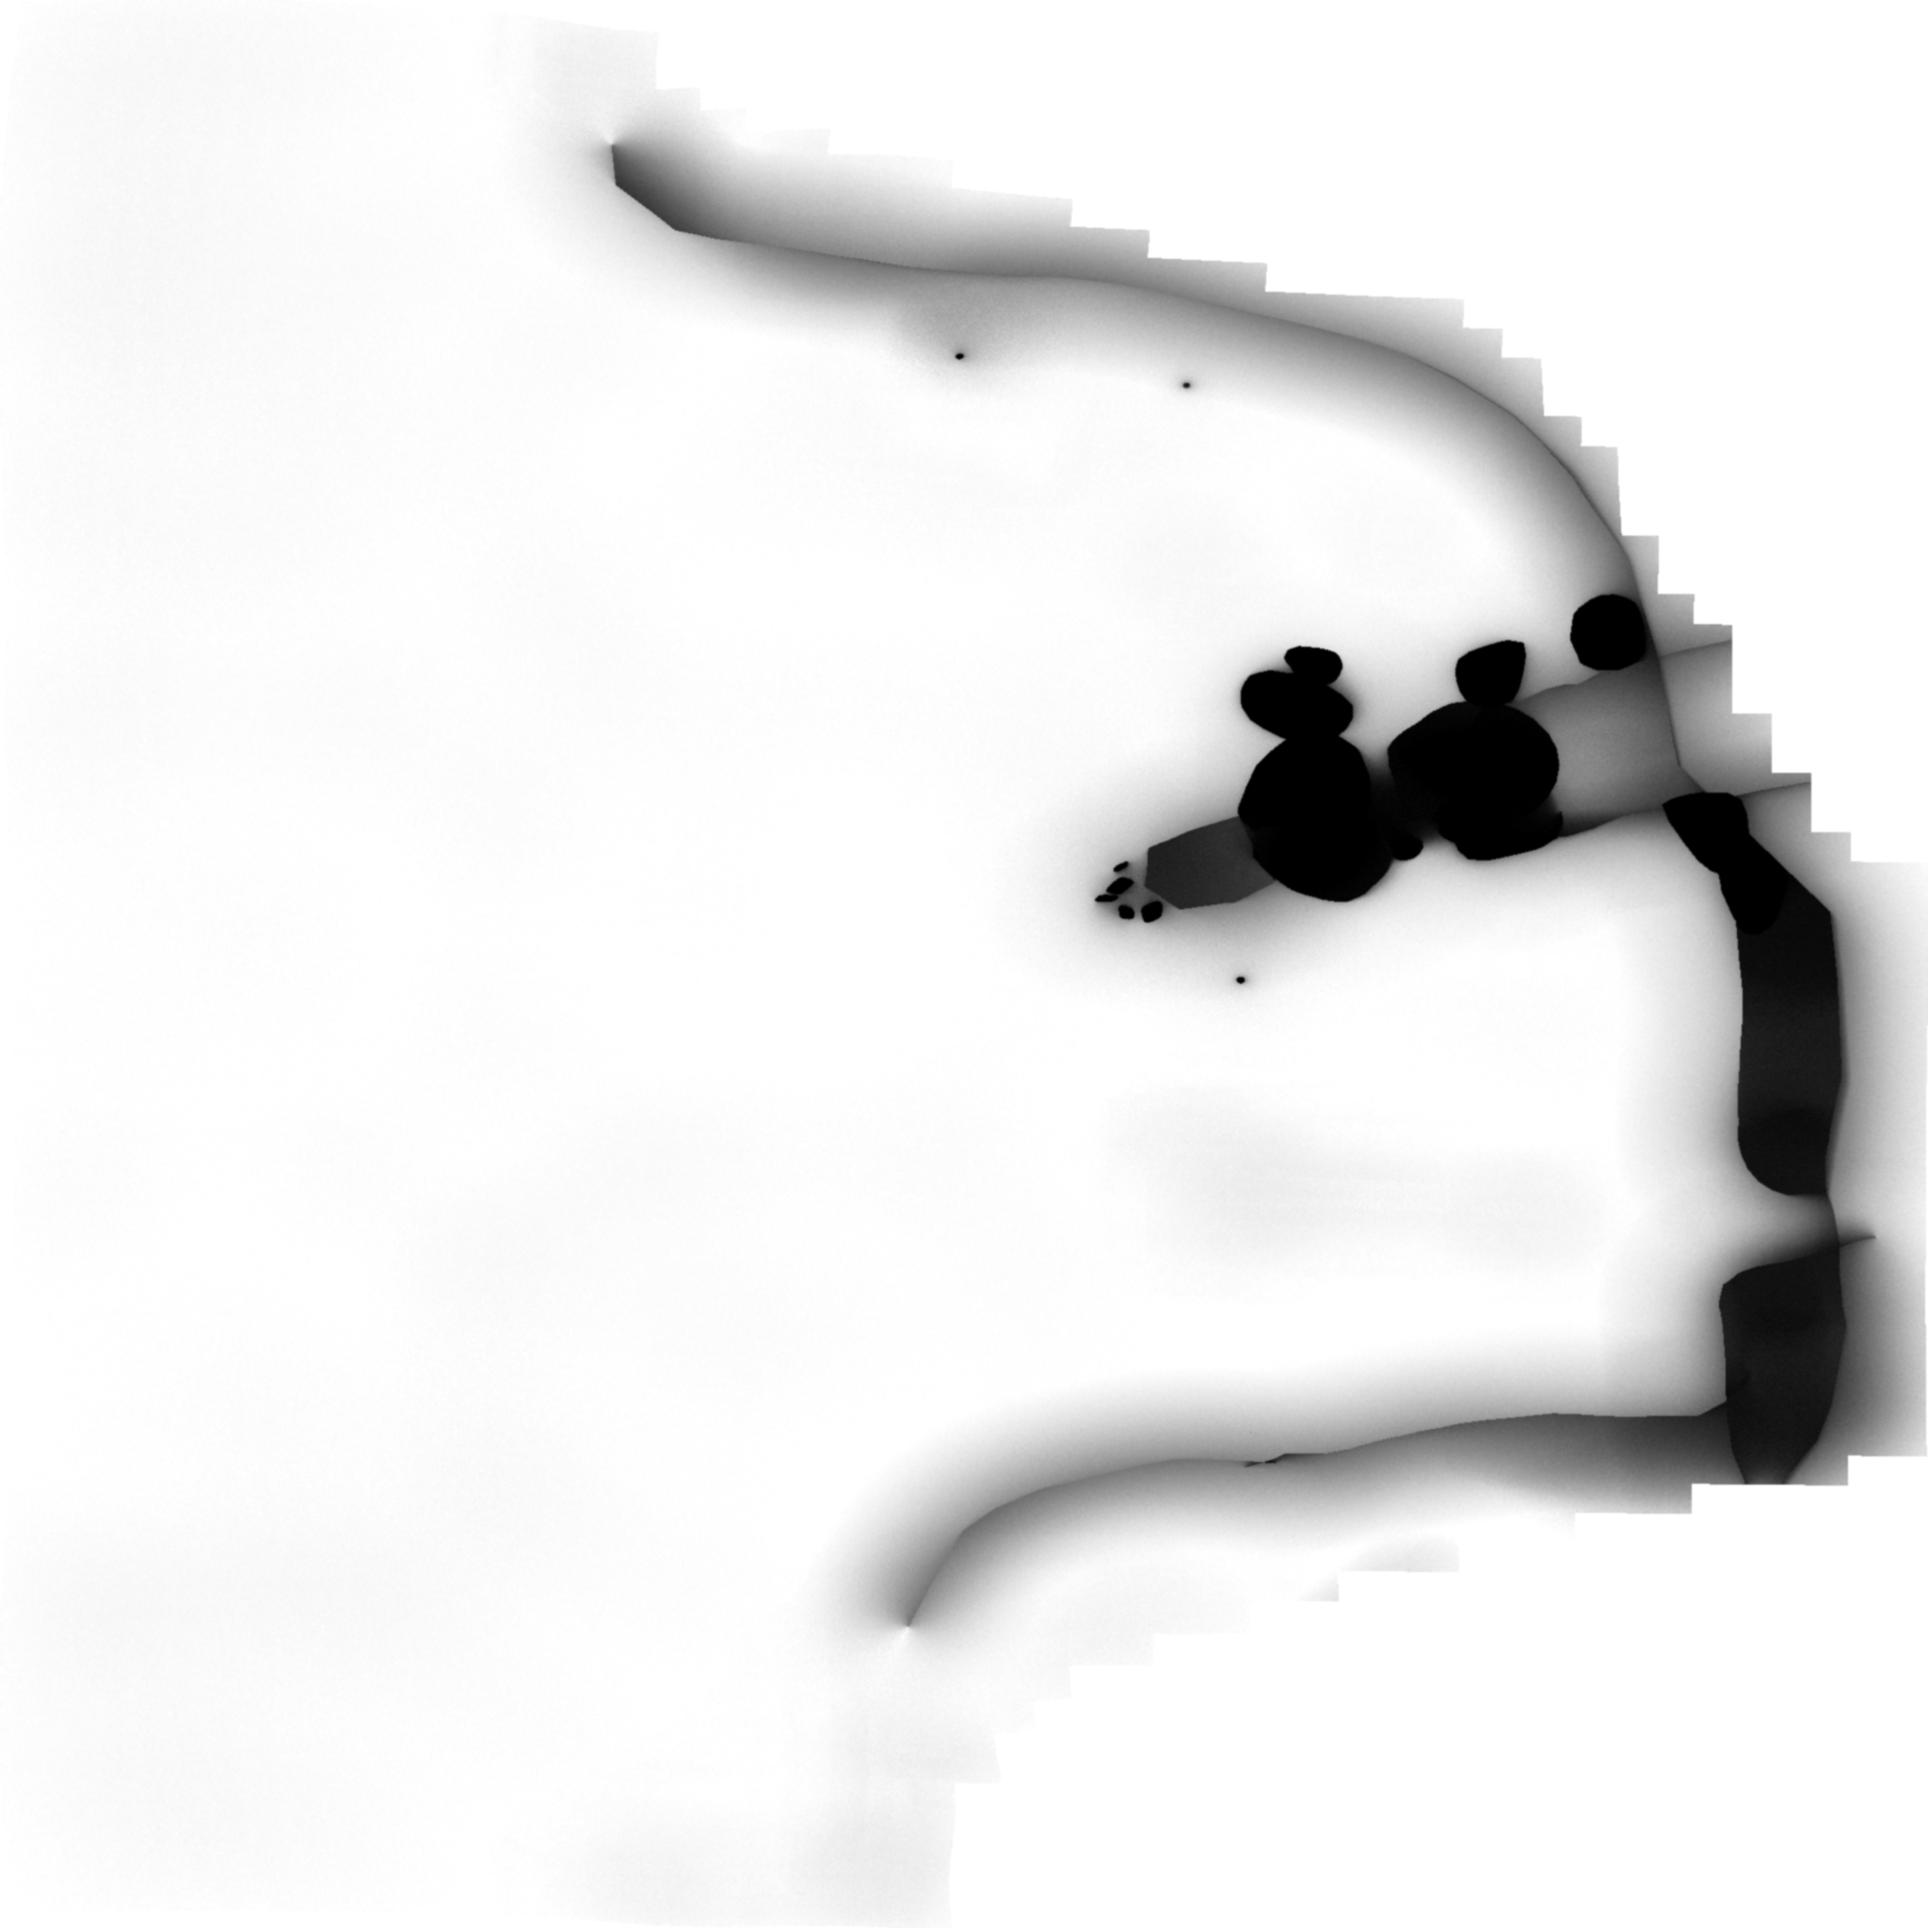
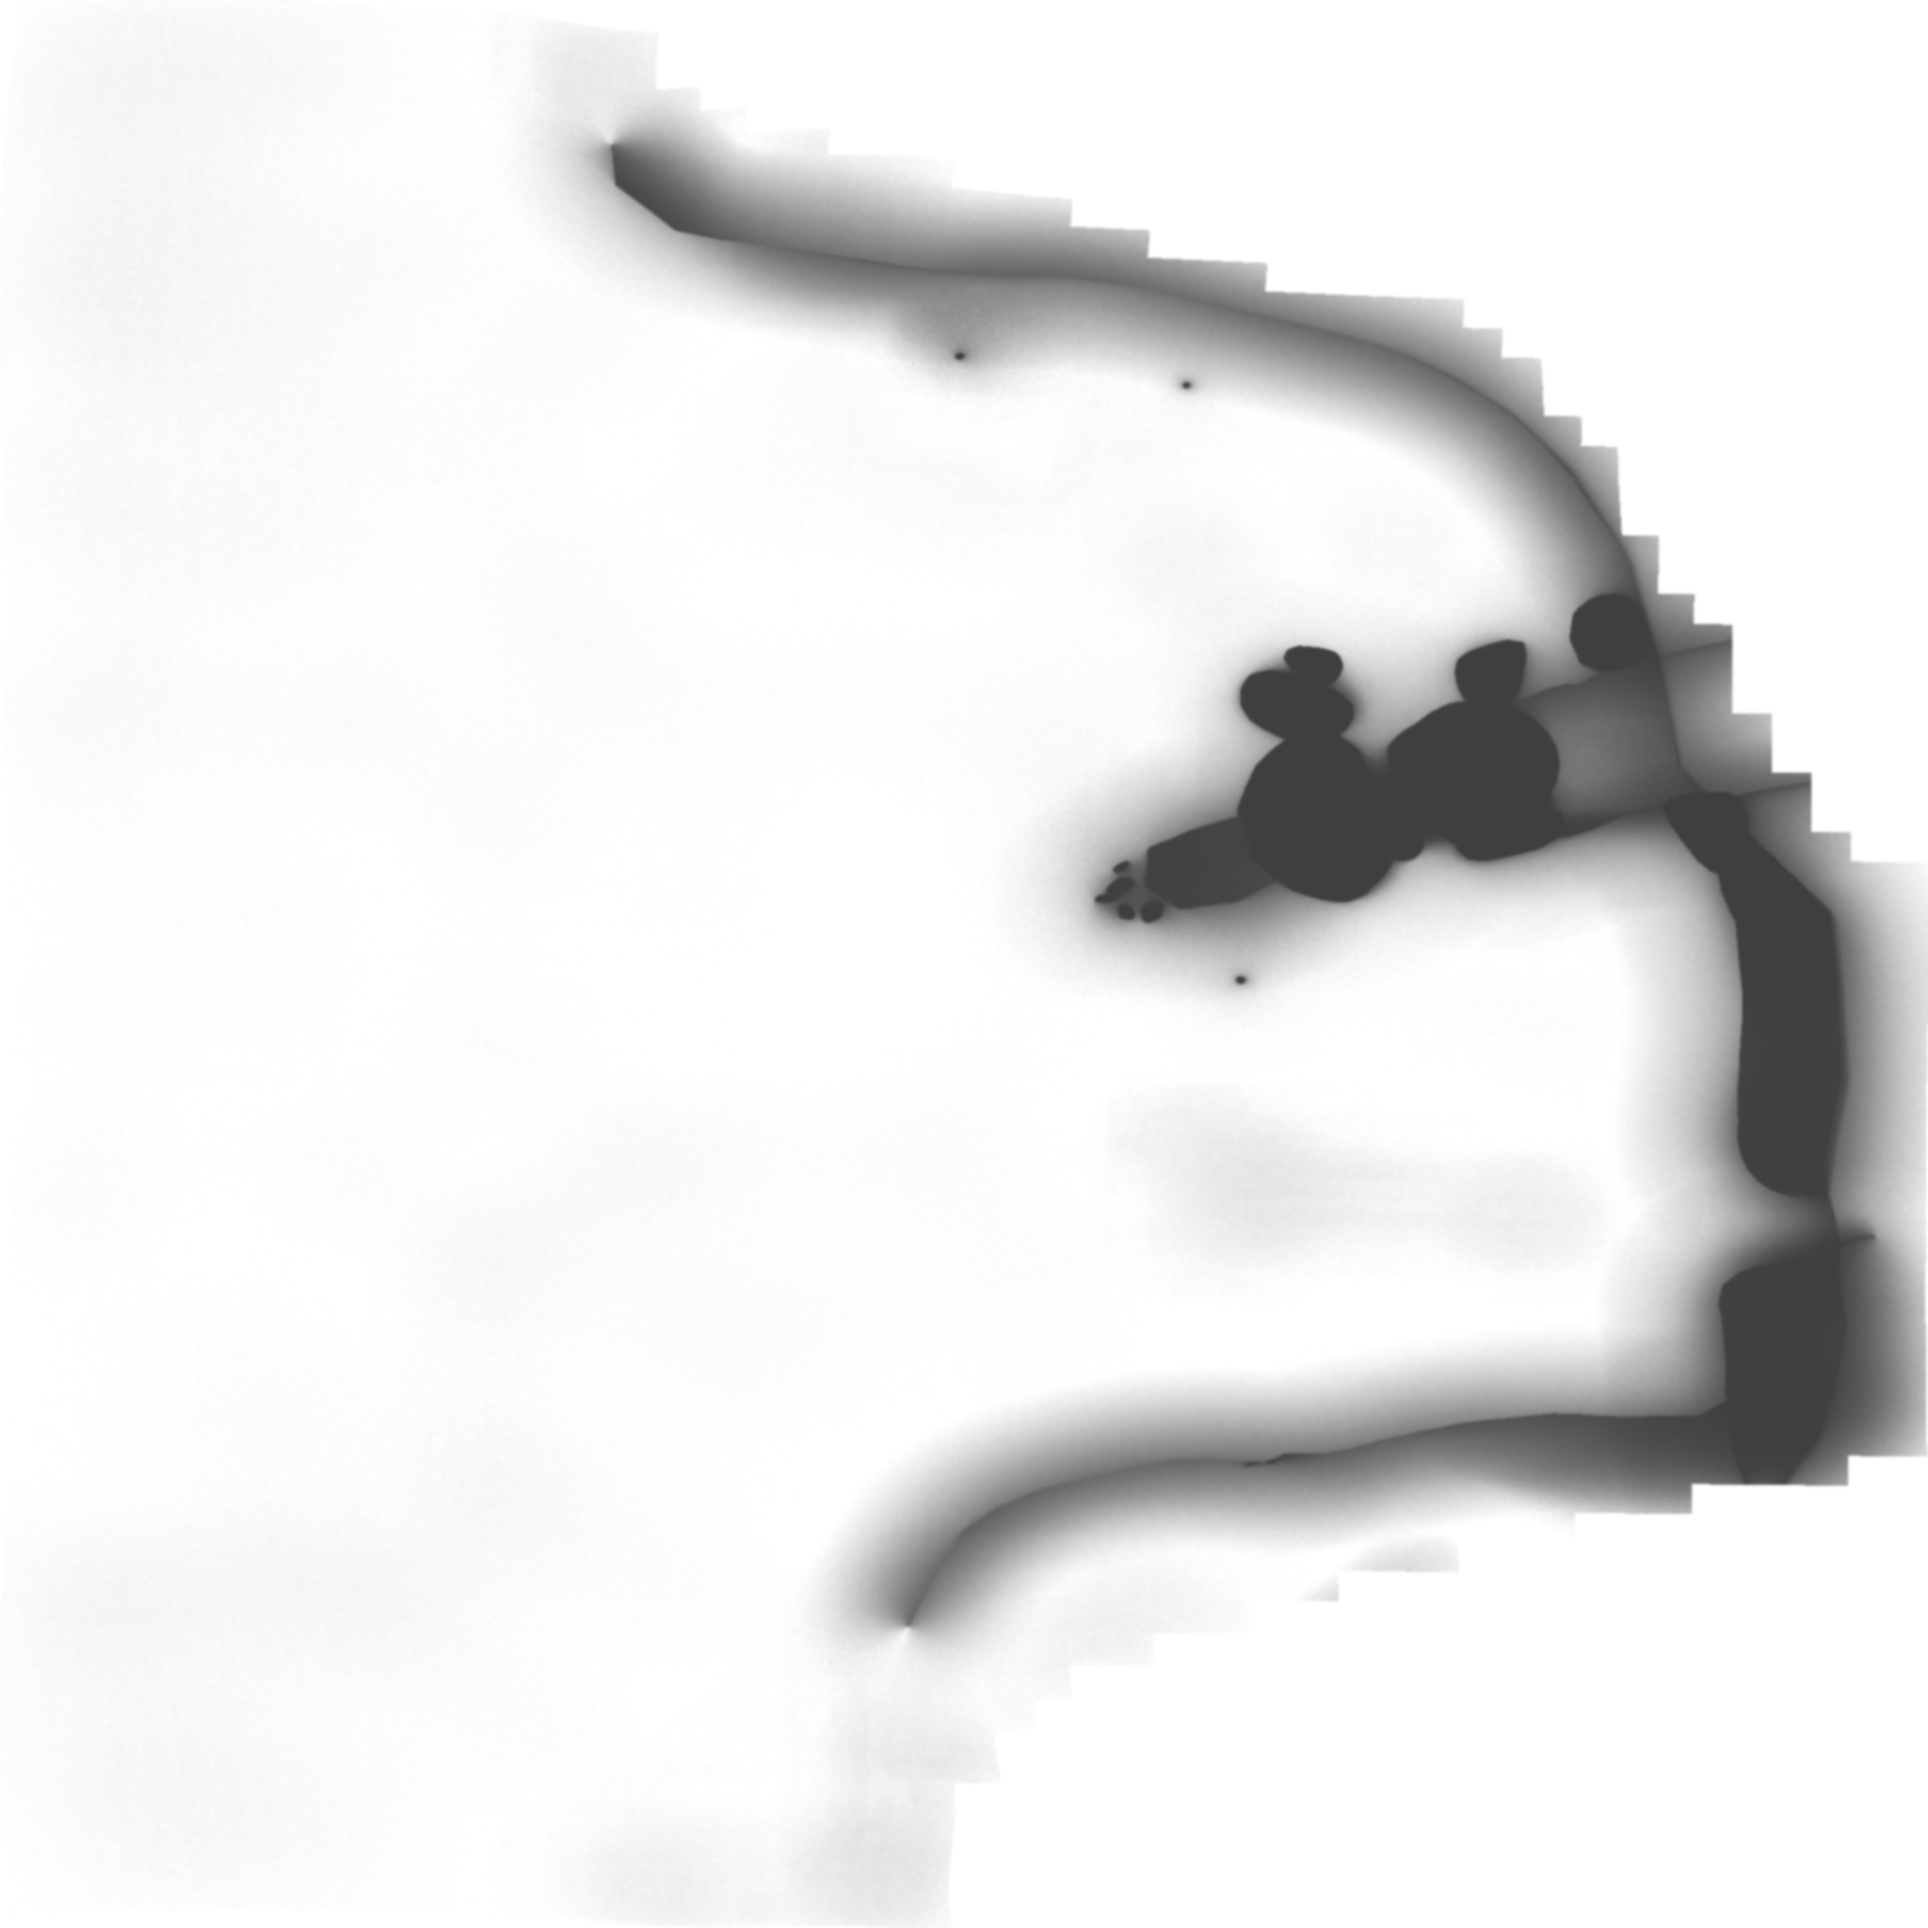
Bullets are MDual, and the AO-map is now better balanced

Changed region(s): [[0.5625, 0.3125, 0.9688, 0.7812]]

diff --git a/game/plugins/BulletHoles/BulletHoles.py b/game/plugins/BulletHoles/BulletHoles.py
@@ -12,7 +12,7 @@
 # See the License for the specific language governing permissions and
 # limitations under the License.
 
-from pandac.PandaModules import CardMaker, Texture, ModelRoot, ColorBlendAttrib, DecalEffect, NodePath, Point2, Point3, BitMask32
+from pandac.PandaModules import CardMaker, Texture, ModelRoot, ColorBlendAttrib, TransparencyAttrib, DecalEffect, NodePath, Point2, Point3, BitMask32
 from random import random
 
 BULLETHOLE_SIZE = 0.05
@@ -55,7 +55,7 @@ class BulletHoles:
     parent.clearTexture()
     parent.flattenStrong()
     parent.setTexture(self.texture)
-    parent.setTransparency(True)
+    parent.setTransparency(TransparencyAttrib.MDual)
     parent.setShaderOff(1)
     parent.hide(BitMask32.bit(2)) # Invisible to volumetric lighting camera (speedup)
     parent.hide(BitMask32.bit(3)) # Invisible to shadow cameras (speedup)
